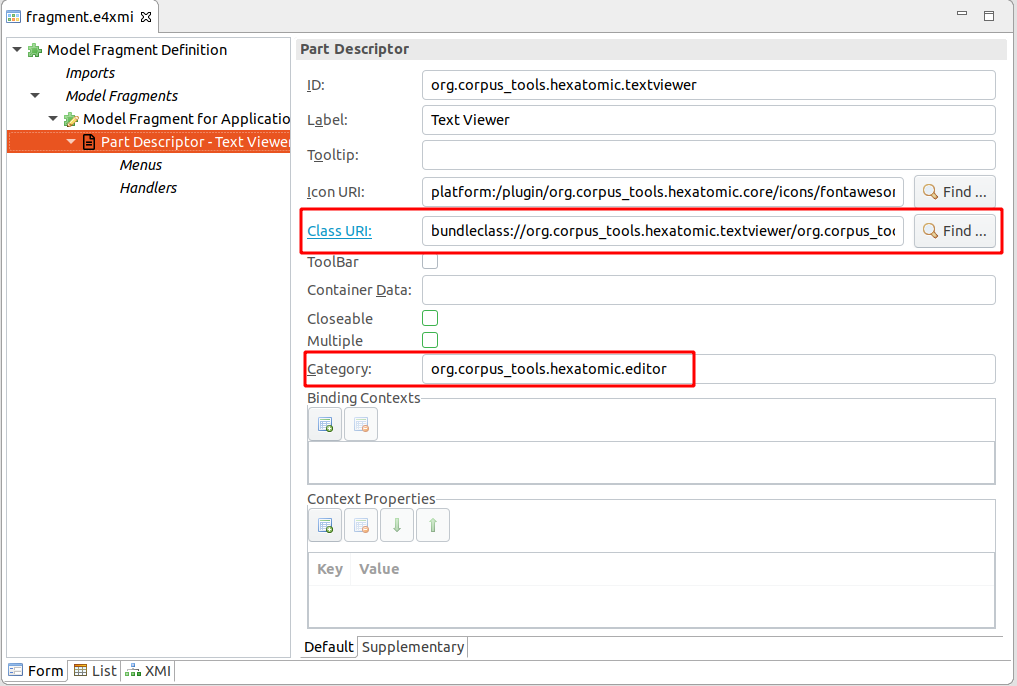
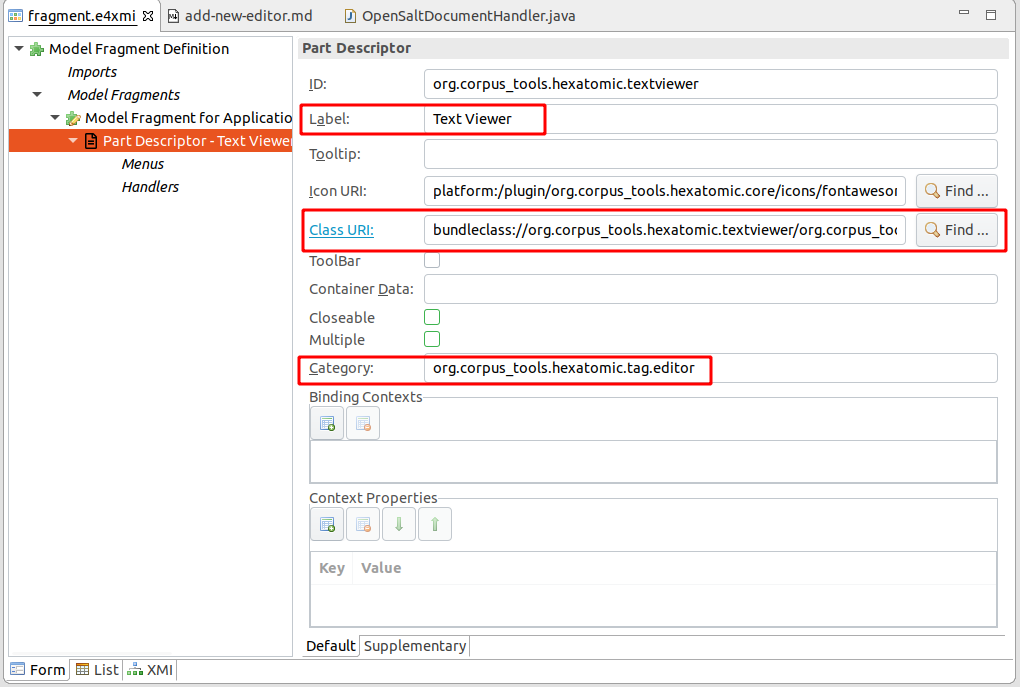
Rename editor tag to "org.corpus_tools.hexatomic.tag.editor"

Changed region(s): [[0.0, 0.0, 1.0, 1.0], [0.9449, 0.0, 1.0, 0.0612]]

diff --git a/bundles/org.corpus_tools.hexatomic.core/src/main/java/org/corpus_tools/hexatomic/core/handlers/OpenSaltDocumentHandler.java b/bundles/org.corpus_tools.hexatomic.core/src/main/java/org/corpus_tools/hexatomic/core/handlers/OpenSaltDocumentHandler.java
@@ -27,7 +27,7 @@ public class OpenSaltDocumentHandler {
 	public static final String COMMAND_PARAM_EDITOR_ID = "org.corpus_tools.hexatomic.core.commandparameter.editor-id";
 	public static final String DOCUMENT_ID = "org.corpus_tools.hexatomic.document-id";
 	public static final String COMMAND_OPEN_DOCUMENT_ID = "org.corpus_tools.hexatomic.core.command.open_salt_document";
-	public static final String EDITOR_TAG = "org.corpus_tools.hexatomic.editor";
+	public static final String EDITOR_TAG = "org.corpus_tools.hexatomic.tag.editor";
 	
 	/**
 	 * Opens the currently selected document with the given editor.

diff --git a/docs/dev/src/development/add-new-editor.md b/docs/dev/src/development/add-new-editor.md
@@ -44,7 +44,7 @@ Then, add a new part descriptor with the `Add` button (2).
 Select the new part descriptor in the model fragment editor and you can edit several properties, like the caption of the part or an icon.
 Make sure to set the "Class URI" field to the newly created editor class.
 You can use the "Find" button to navigate the workspace and insert the proper value.
-Also, the "Category" should be set to `org.corpus_tools.hexatomic.editor` to mark that this part is an Hexatomic editor. 
+Also, the "Category" should be set to `org.corpus_tools.hexatomic.tag.editor` to mark that this part is an Hexatomic editor. 
 The `Label`field will be used as a name for the editor, e.g. when the user has a selection of editors to choose from for opening a document.
 
 ![Part descriptor general properties](./part-descriptor-class.png)
